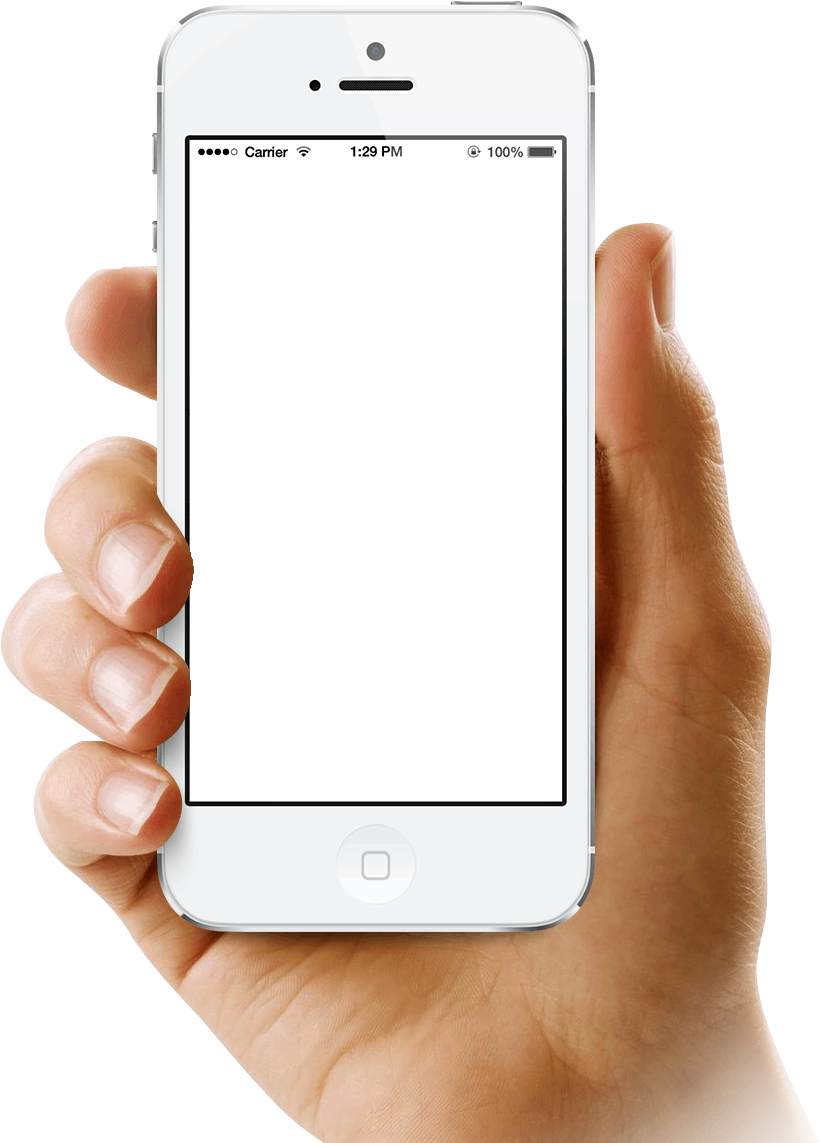
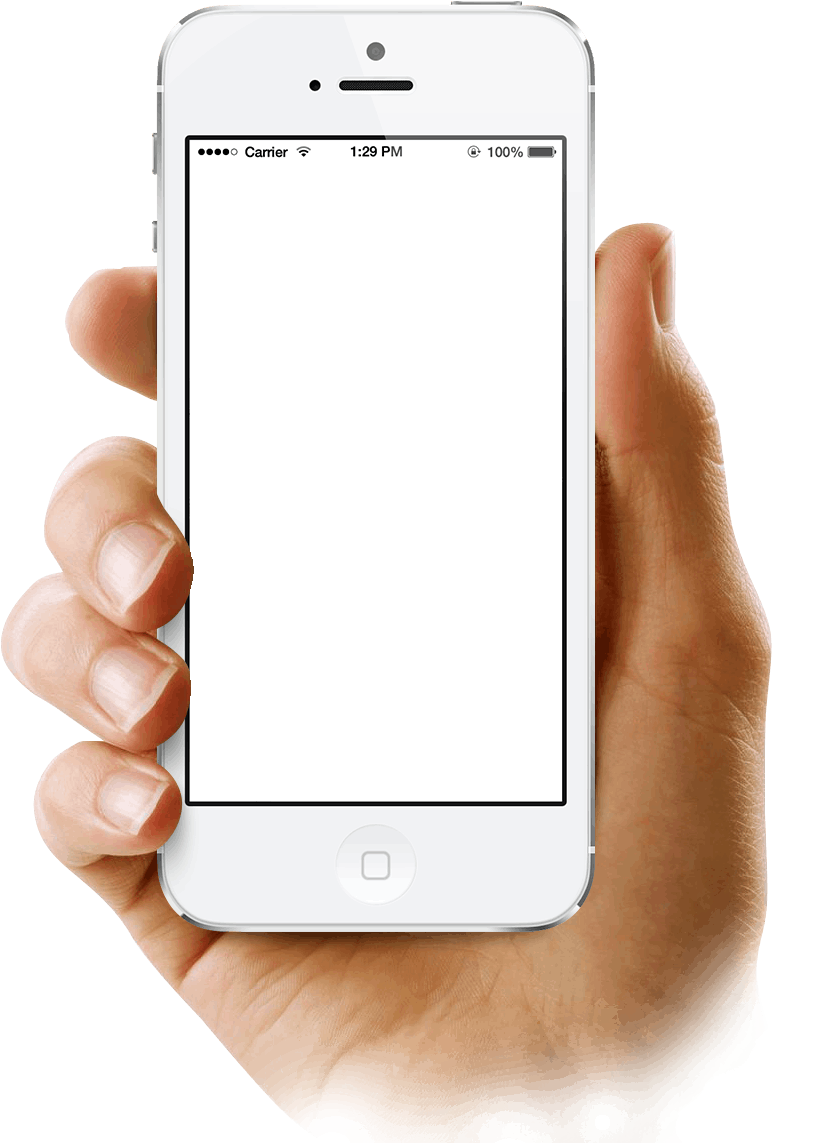
UI Refactor: Replace simple-keyboard with Mottie Virtual Keyboard plugin

Changed region(s): [[0.3354, 0.7962, 0.9756, 1.0]]

diff --git a/playground.js b/playground.js
@@ -279,24 +279,13 @@
         } else if (key === 'enter') {
             submitMessage();
         } else if (key === 'shift') {
-            shiftActive = !shiftActive;
+            // Mottie Keyboard handles layout switching internally
         } else {
-            // simple-keyboard emits uppercase letters when shifted.
-            // If it's a lowercase letter, check shiftActive.
             let ch = key;
-            if (ch.length === 1 && ch >= 'a' && ch <= 'z' && shiftActive) {
-                ch = ch.toUpperCase();
-            }
             currentText += ch;
             Engine.onKey(ch.charCodeAt(0));
             if (!Engine.ready) {
                 logTerminal(`Key: '${ch}' (0x${ch.charCodeAt(0).toString(16)})`, "info");
-            }
-            if (shiftActive) {
-                shiftActive = false;
-                if (window.myKeyboard) {
-                    window.myKeyboard.setOptions({ layoutName: "default" });
-                }
             }
         }
         updateDisplay();
@@ -333,44 +322,49 @@
         }, 400);
     }
 
-    // ---- Virtual Keyboard Events (simple-keyboard) ----
-    const Keyboard = window.SimpleKeyboard.default;
-    window.myKeyboard = new Keyboard({
-        onKeyPress: button => {
-            let key = button;
-            if (button === '{shift}') key = 'shift';
-            else if (button === '{bksp}') key = 'backspace';
-            else if (button === '{space}') key = 'space';
-            else if (button === '{enter}') key = 'enter';
-            
-            if (key === 'shift') {
-                const currentLayout = window.myKeyboard.options.layoutName;
-                const shiftToggle = currentLayout === "default" ? "shift" : "default";
-                window.myKeyboard.setOptions({ layoutName: shiftToggle });
-            }
-            
-            handleKey(key);
-        },
-        layout: {
-            'default': [
+    // ---- Virtual Keyboard Events (Mottie Keyboard) ----
+    const mottieInput = $('#mottie-hidden-input');
+    mottieInput.keyboard({
+        alwaysOpen: true,
+        usePreview: false,
+        appendTo: '#mottie-keyboard-container',
+        layout: 'custom',
+        customLayout: {
+            'normal': [
                 'q w e r t y u i o p',
                 'a s d f g h j k l',
                 '{shift} z x c v b n m {bksp}',
-                '{space} {enter}'
+                '{space} {accept}'
             ],
             'shift': [
                 'Q W E R T Y U I O P',
                 'A S D F G H J K L',
                 '{shift} Z X C V B N M {bksp}',
-                '{space} {enter}'
+                '{space} {accept}'
             ]
         },
         display: {
-            '{bksp}': '⌫',
-            '{enter}': 'return',
-            '{shift}': '⇧',
-            '{space}': 'space'
+            'bksp': 'Del',
+            'accept': 'Enter',
+            'shift': 'Shift',
+            'space': 'Space'
         }
+    });
+
+    // Intercept clicks on Mottie keyboard buttons to feed into our engine pipeline
+    $('#mottie-keyboard-container').on('mousedown', '.ui-keyboard-button', function(e) {
+        let action = $(this).attr('data-action');
+        let value = $(this).attr('data-value');
+        
+        let key = value || action;
+        if (!key) return;
+        
+        if (key === 'space') key = 'space';
+        else if (key === 'accept') key = 'enter';
+        else if (key === 'bksp') key = 'backspace';
+        else if (key === 'shift') key = 'shift';
+        
+        handleKey(key);
     });
 
     // ---- Physical Keyboard Integration ----
@@ -378,49 +372,18 @@
         if (document.activeElement.tagName === 'INPUT' ||
             document.activeElement.tagName === 'TEXTAREA') return;
 
-        let virtualKey = null;
-        
         if (e.code === 'Space') {
             e.preventDefault();
             handleKey('space');
-            virtualKey = '{space}';
         } else if (e.code === 'Enter') {
             e.preventDefault();
             handleKey('enter');
-            virtualKey = '{enter}';
         } else if (e.code === 'Backspace') {
             e.preventDefault();
             handleKey('backspace');
-            virtualKey = '{bksp}';
         } else if (e.key.length === 1 && !e.ctrlKey && !e.altKey && !e.metaKey) {
             e.preventDefault();
             handleKey(e.key);
-            virtualKey = e.key.toLowerCase();
-        } else if (e.key === 'Shift') {
-            window.myKeyboard.setOptions({ layoutName: "shift" });
-            virtualKey = '{shift}';
-        }
-
-        if (virtualKey) {
-            const btn = window.myKeyboard.getButtonElement(virtualKey);
-            if (btn) btn.classList.add('hg-activeButton');
-        }
-    });
-
-    document.addEventListener('keyup', (e) => {
-        let virtualKey = null;
-        if (e.code === 'Space') virtualKey = '{space}';
-        else if (e.code === 'Enter') virtualKey = '{enter}';
-        else if (e.code === 'Backspace') virtualKey = '{bksp}';
-        else if (e.key.length === 1) virtualKey = e.key.toLowerCase();
-        else if (e.key === 'Shift') {
-            window.myKeyboard.setOptions({ layoutName: "default" });
-            virtualKey = '{shift}';
-        }
-
-        if (virtualKey) {
-            const btn = window.myKeyboard.getButtonElement(virtualKey);
-            if (btn) btn.classList.remove('hg-activeButton');
         }
     });
 

diff --git a/playground.html b/playground.html
@@ -4,11 +4,12 @@
     <meta charset="UTF-8">
     <meta name="viewport" content="width=device-width, initial-scale=1.0">
     <title>IntentSpider Playground</title>
-    <link rel="stylesheet" href="styles.css?v=6">
+    <link rel="stylesheet" href="styles.css?v=7">
     <link rel="stylesheet" href="https://cdn.jsdelivr.net/npm/xterm@5.3.0/css/xterm.css" />
-    <link rel="stylesheet" href="https://cdn.jsdelivr.net/npm/simple-keyboard@latest/build/css/index.css" />
+    <link rel="stylesheet" href="https://cdnjs.cloudflare.com/ajax/libs/virtual-keyboard/1.30.4/css/keyboard.min.css" />
+    <script src="https://code.jquery.com/jquery-3.7.1.min.js"></script>
+    <script src="https://cdnjs.cloudflare.com/ajax/libs/virtual-keyboard/1.30.4/js/jquery.keyboard.min.js"></script>
     <script src="https://cdn.jsdelivr.net/npm/xterm@5.3.0/lib/xterm.js"></script>
-    <script src="https://cdn.jsdelivr.net/npm/simple-keyboard@latest/build/index.js"></script>
 </head>
 <body>
     <div id="wrap">
@@ -56,7 +57,8 @@
                             <button id="sug-3">—</button>
                         </div>
 
-                        <div class="simple-keyboard"></div>
+                        <div id="mottie-keyboard-container"></div>
+                        <input type="text" id="mottie-hidden-input" style="position: absolute; left: -9999px;">
                     </div>
                 </div>
             </div>
@@ -76,7 +78,7 @@
         </footer>
     </div>
 
-    <script src="wasm/intentspider.js?v=6"></script>
-    <script src="playground.js?v=6"></script>
+    <script src="wasm/intentspider.js?v=7"></script>
+    <script src="playground.js?v=7"></script>
 </body>
 </html>

diff --git a/styles.css b/styles.css
@@ -160,10 +160,10 @@ footer a {
 
 .phone-screen {
   position: absolute;
-  top: 11%;
+  top: 14%;
   left: 22.5%;
   width: 45%;
-  height: 59%;
+  height: 56%;
   z-index: 1;
   background: #FFFFFF;
   display: flex;
@@ -266,38 +266,16 @@ footer a {
   background: rgba(0, 49, 167, 0.1);
 }
 
-.simple-keyboard {
+#mottie-keyboard-container {
+  width: 100%;
+  text-align: center;
+  background: #E5E7EB;
   padding: 5px;
-  background: #D1D5DB;
   border-top: 1px solid #B0B5BA;
 }
-.hg-theme-default .hg-button {
-  border: none;
-  border-radius: 5px;
-  background: #FFFFFF;
-  color: #000000;
-  font-family: inherit;
-  font-size: 16px;
-  box-shadow: 0 1px 0 rgba(0,0,0,0.3);
-  margin: 2px 1px;
-}
-.hg-theme-default .hg-button:active,
-.hg-theme-default .hg-button.hg-activeButton {
-  background: #B3B8C1;
-}
-.hg-theme-default .hg-button[data-skbtn="{shift}"],
-.hg-theme-default .hg-button[data-skbtn="{bksp}"],
-.hg-theme-default .hg-button[data-skbtn="{enter}"] {
-  background: #B3B8C1;
-  font-size: 14px;
-}
-.hg-theme-default .hg-button[data-skbtn="{shift}"]:active,
-.hg-theme-default .hg-button[data-skbtn="{bksp}"]:active,
-.hg-theme-default .hg-button[data-skbtn="{enter}"]:active {
-  background: #FFFFFF;
-}
-.hg-theme-default .hg-button.hg-standardBtn {
-  text-transform: uppercase;
+.ui-keyboard {
+  padding: 5px;
+  margin: 0 auto;
 }
 
 .terminal-panel {
